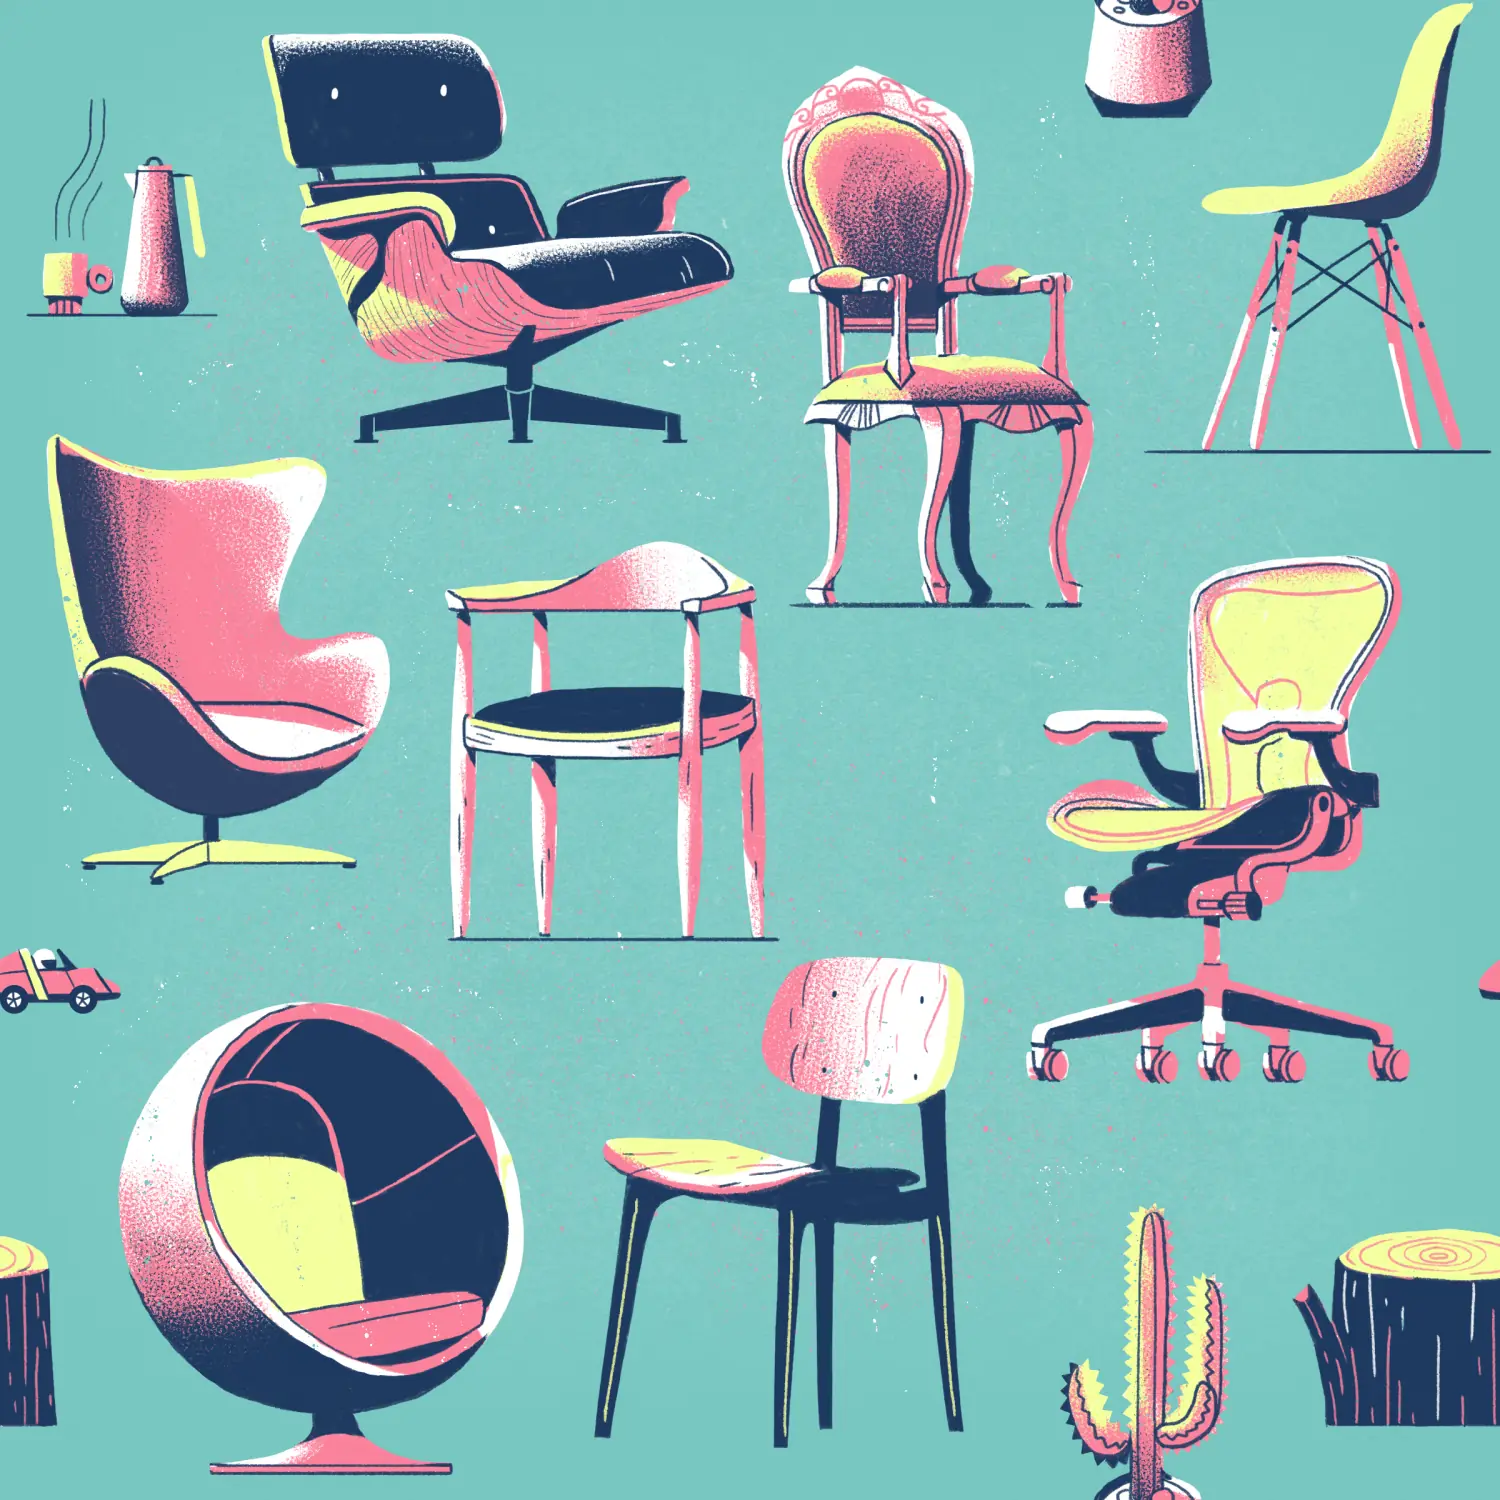
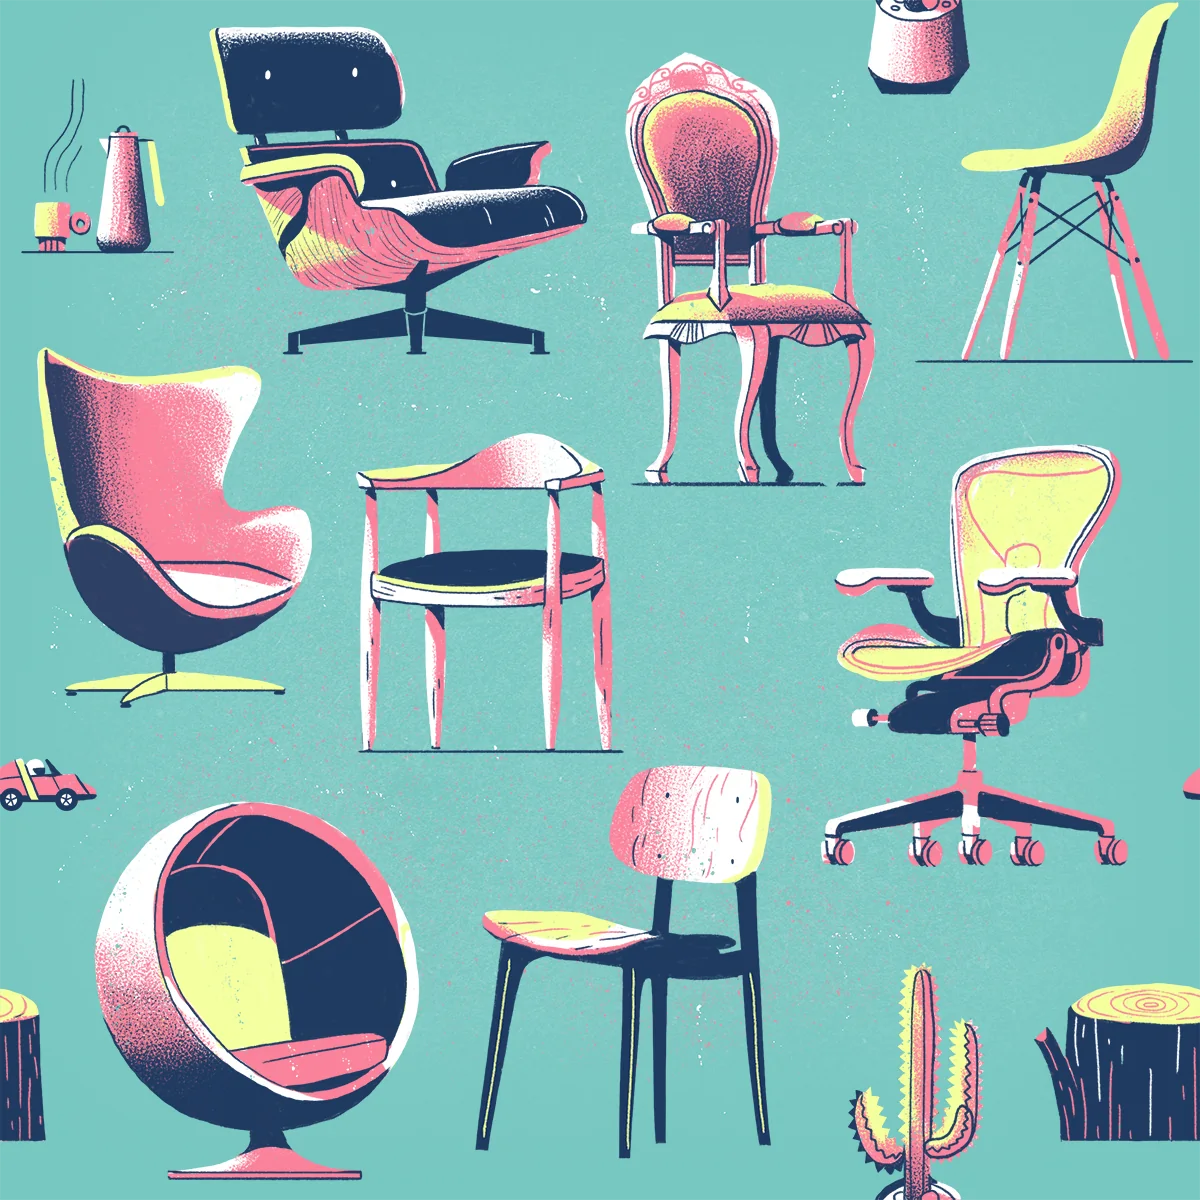
upgrading heros

diff --git a/pages/writing.tsx b/pages/writing.tsx
@@ -1,5 +1,5 @@
 import Link from "next/link";
-import hero from "/public/heros/writing.png";
+import hero from "/public/heros/writing.webp";
 
 export default function Home() {
   return (

diff --git a/pages/contact.tsx b/pages/contact.tsx
@@ -1,4 +1,4 @@
-import hero from "/public/heros/bluedogs.png";
+import hero from "/public/heros/contact.webp";
 
 export default function Contact() {
   return (
